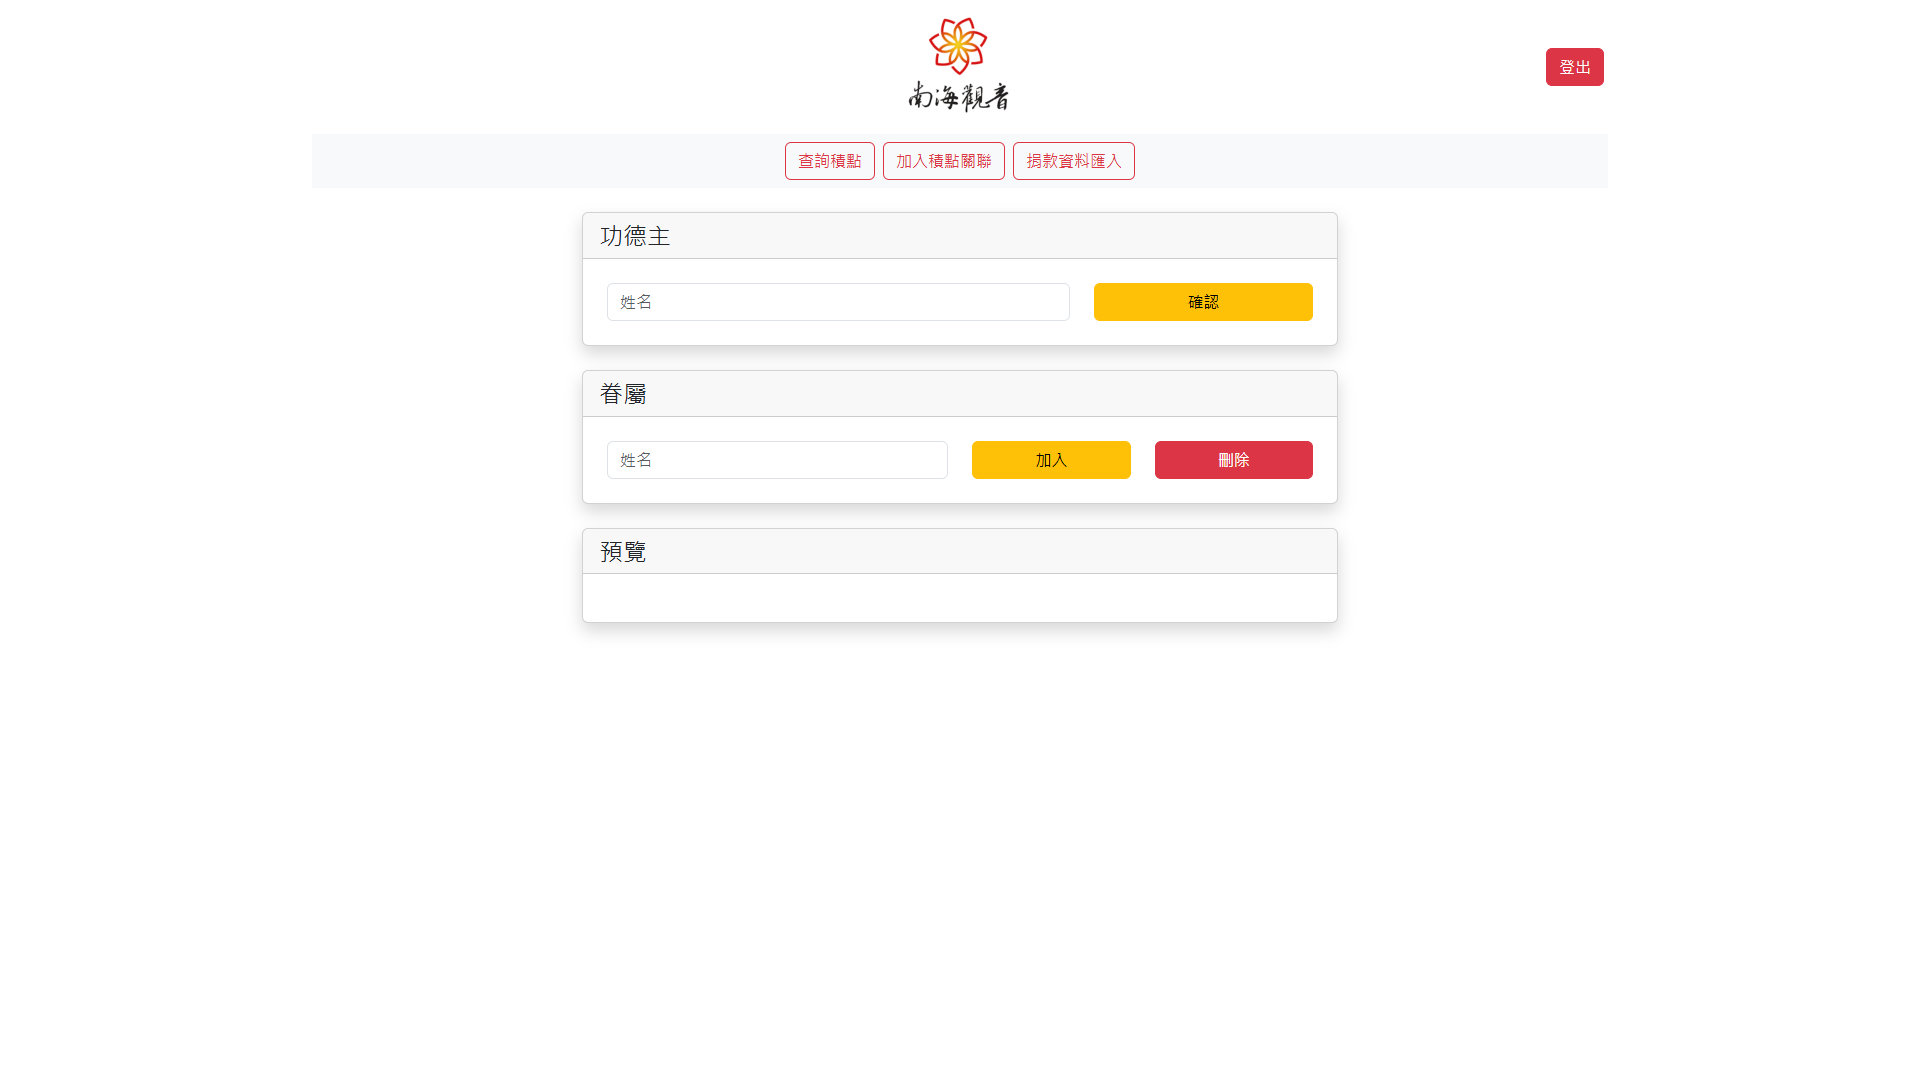
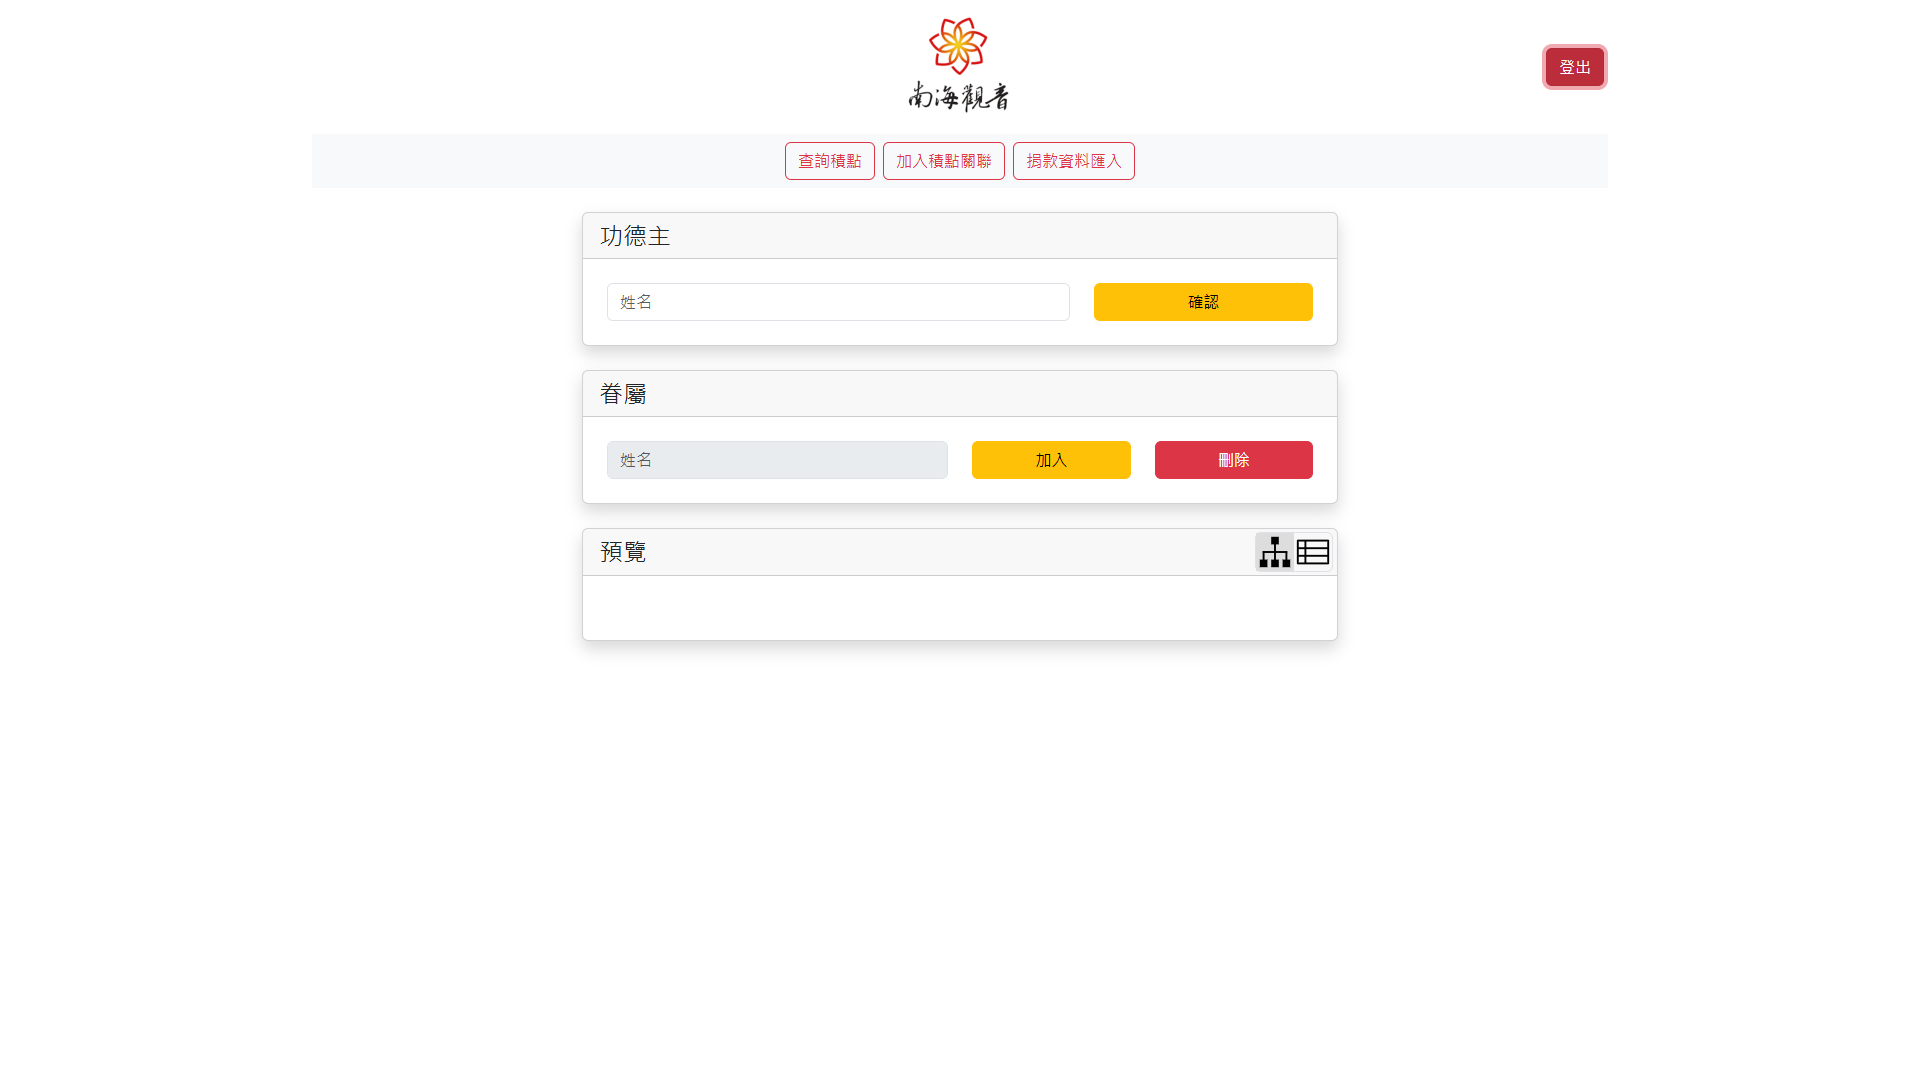
docs: update documentation

Changed region(s): [[0.3125, 0.4889, 0.6875, 0.6111], [0.7812, 0.0306, 0.8438, 0.0917]]

diff --git a/docs/README.md b/docs/README.md
@@ -175,7 +175,7 @@
 
 ```ts
 {
-  data: ([string] | [string, string])[],
+  data: [[string], ...[string, string][]],
 }
 ```
 
@@ -224,10 +224,10 @@
 <summary>登入頁面</summary>
 
 使用者可以輸入帳號密碼進行登入，若帳號密碼正確，則會導向查詢頁面。<br>
-![登入頁面](./p_login.png)
+![登入頁面](p_login.png)
 
 若帳號密碼錯誤，則會顯示登入失敗訊息。<br>
-![登入失敗](./p_login_failed.png)
+![登入失敗](p_login_failed.png)
 
 </details>
 
@@ -237,13 +237,13 @@
 <summary>查詢頁面</summary>
 
 使用者可以輸入捐款者姓名，並查詢資料庫中的資料。<br>
-![查詢頁面](./p_search.png)
+![查詢頁面](p_search.png)
 
 查詢成功時，資料將會顯示在下方的欄位中。<br>
-![查詢成功](./p_search_success.png)
+![查詢成功](p_search_success.png)
 
 若資料庫中無此捐款者，則會顯示查無此人訊息。<br>
-![查無此人](./p_search_failed.png)
+![查無此人](p_search_failed.png)
 
 </details>
 
@@ -253,21 +253,26 @@
 <summary>編輯關聯頁面</summary>
 
 使用者可以編輯捐款者與其他捐款者的關聯，此欄位為樹狀結構。<br>
-![編輯關聯頁面](./p_relation.png)
+![編輯關聯頁面](p_relation.png)
 
 若資料庫中發現捐款者，將會在下方預覽頁顯示該捐款者關聯。<br>
-![預覽關聯](./p_relation_success_1.png)
-![預覽關聯](./p_relation_success_2.png)
+![預覽關聯Ｇ](p_relation_graph_1.png)
+![預覽關聯Ｇ](p_relation_graph_2.png)
+
+預設為樹狀圖模式，可以點擊右方的按鈕切換為表格模式。<br>
+![預覽關聯Ｔ](p_relation_table_1.png)
+![預覽關聯Ｔ](p_relation_table_2.png)
 
 若發生循環關聯，則會顯示為下列形式。<br>
-![循環關聯](./p_relation_cycle.png)
+![循環關聯](p_relation_cycle_g.png)
+![循環關聯](p_relation_cycle_t.png)
 
 若欄位名稱重複，將會顯示錯誤訊息。<br>
-![重複名稱](./p_relation_duplicate.png)
+![重複名稱](p_relation_duplicate.png)
 
 若資料庫中無此捐款者，則會顯示查無此人訊息。<br>
-![查無此人](./p_relation_failed_1.png)
-![查無此人](./p_relation_failed_2.png)
+![查無此人](p_relation_failed_1.png)
+![查無此人](p_relation_failed_2.png)
 
 </details>
 
@@ -278,14 +283,14 @@
 
 使用者可以上傳捐款者的資料，資料格式為 Excel 檔案。本頁面包含資料匯出及重設資料庫功能。<br>
 重設資料庫將會刪除所有捐款紀錄及未加入關聯之捐款者資料，已加入關聯之捐款者資料將會保留。<br>
-![上傳資料頁面](./p_upload.png)
+![上傳資料頁面](p_upload.png)
 
 上傳資料時，將會顯示訊息。<br>
-![上傳訊息](./p_upload_success.png)
-![上傳訊息](./p_upload_failed_1.png)
-![上傳訊息](./p_upload_failed_2.png)
+![上傳訊息](p_upload_success.png)
+![上傳訊息](p_upload_failed_1.png)
+![上傳訊息](p_upload_failed_2.png)
 
 重設資料庫時，將會顯示確認視窗。<br>
-![重設確認視窗](./p_upload_reset.png)
+![重設確認視窗](p_upload_reset.png)
 
 </details>
